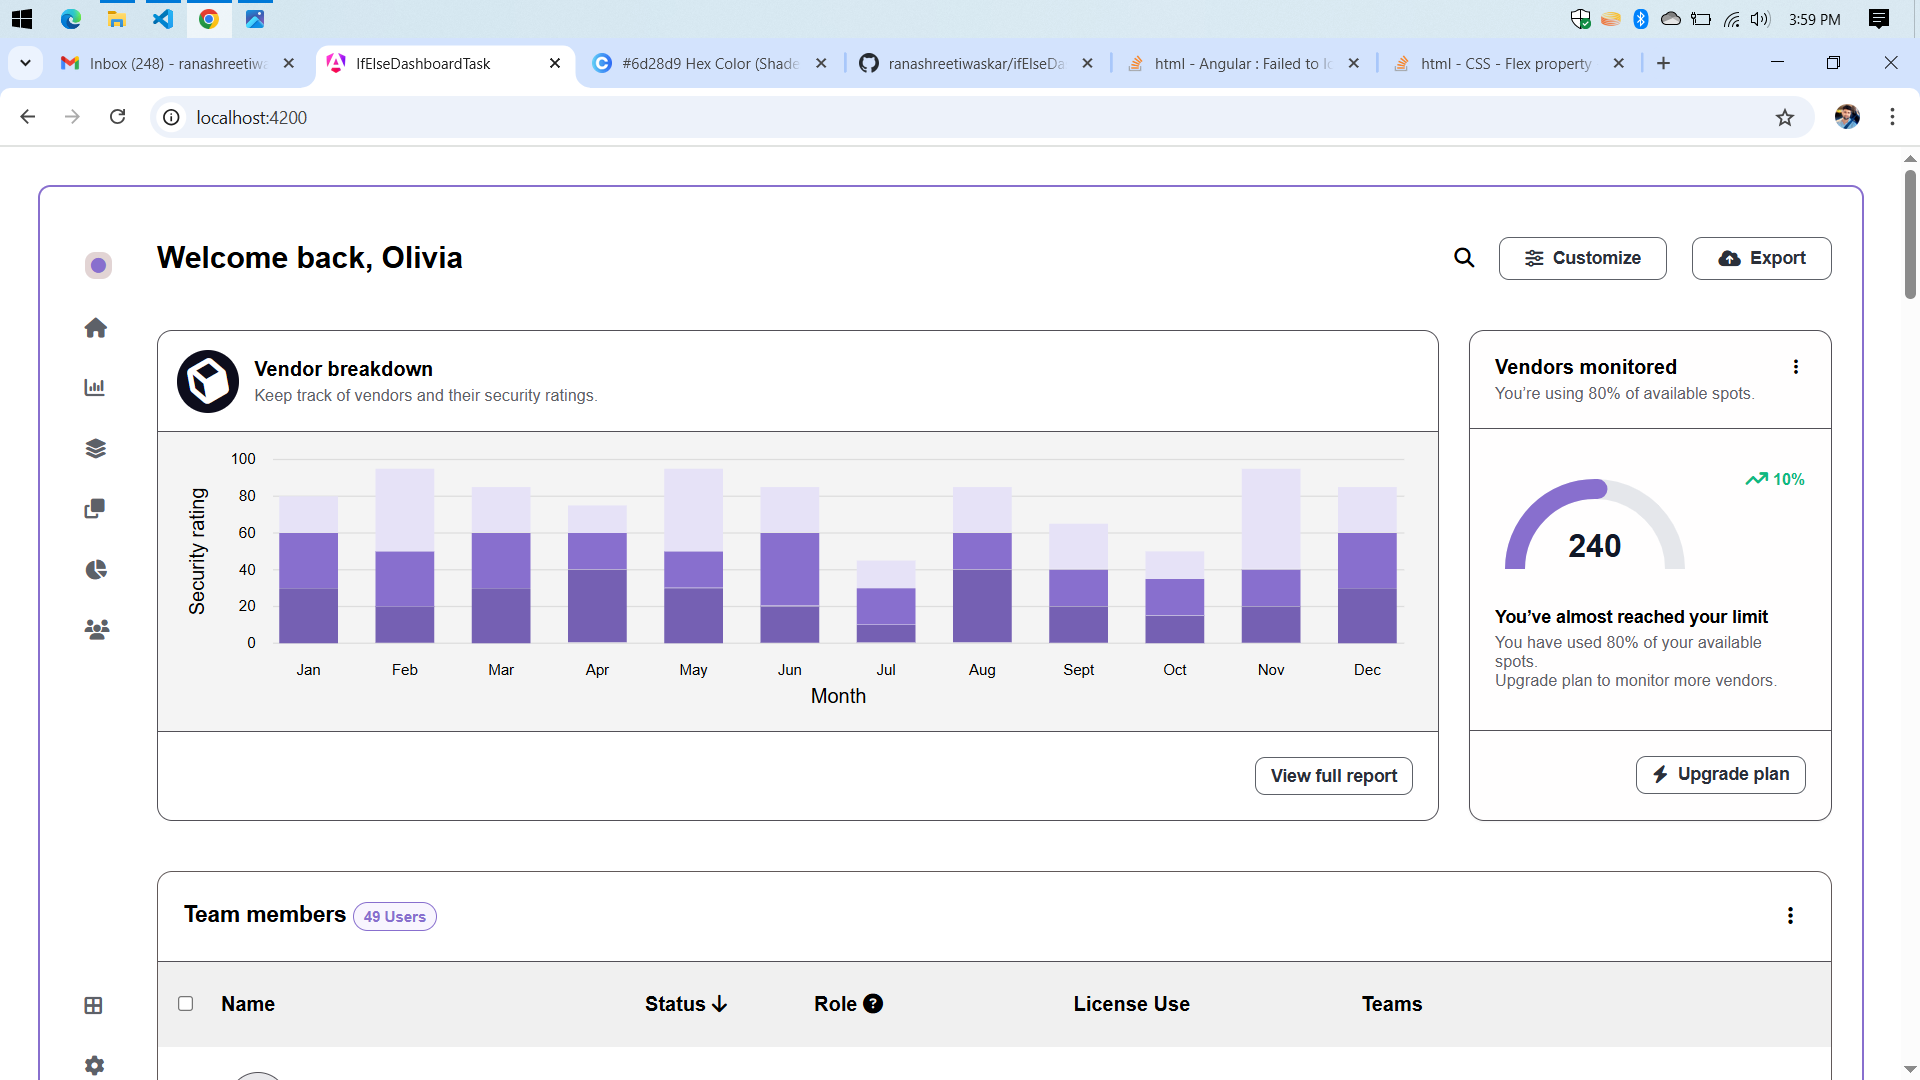
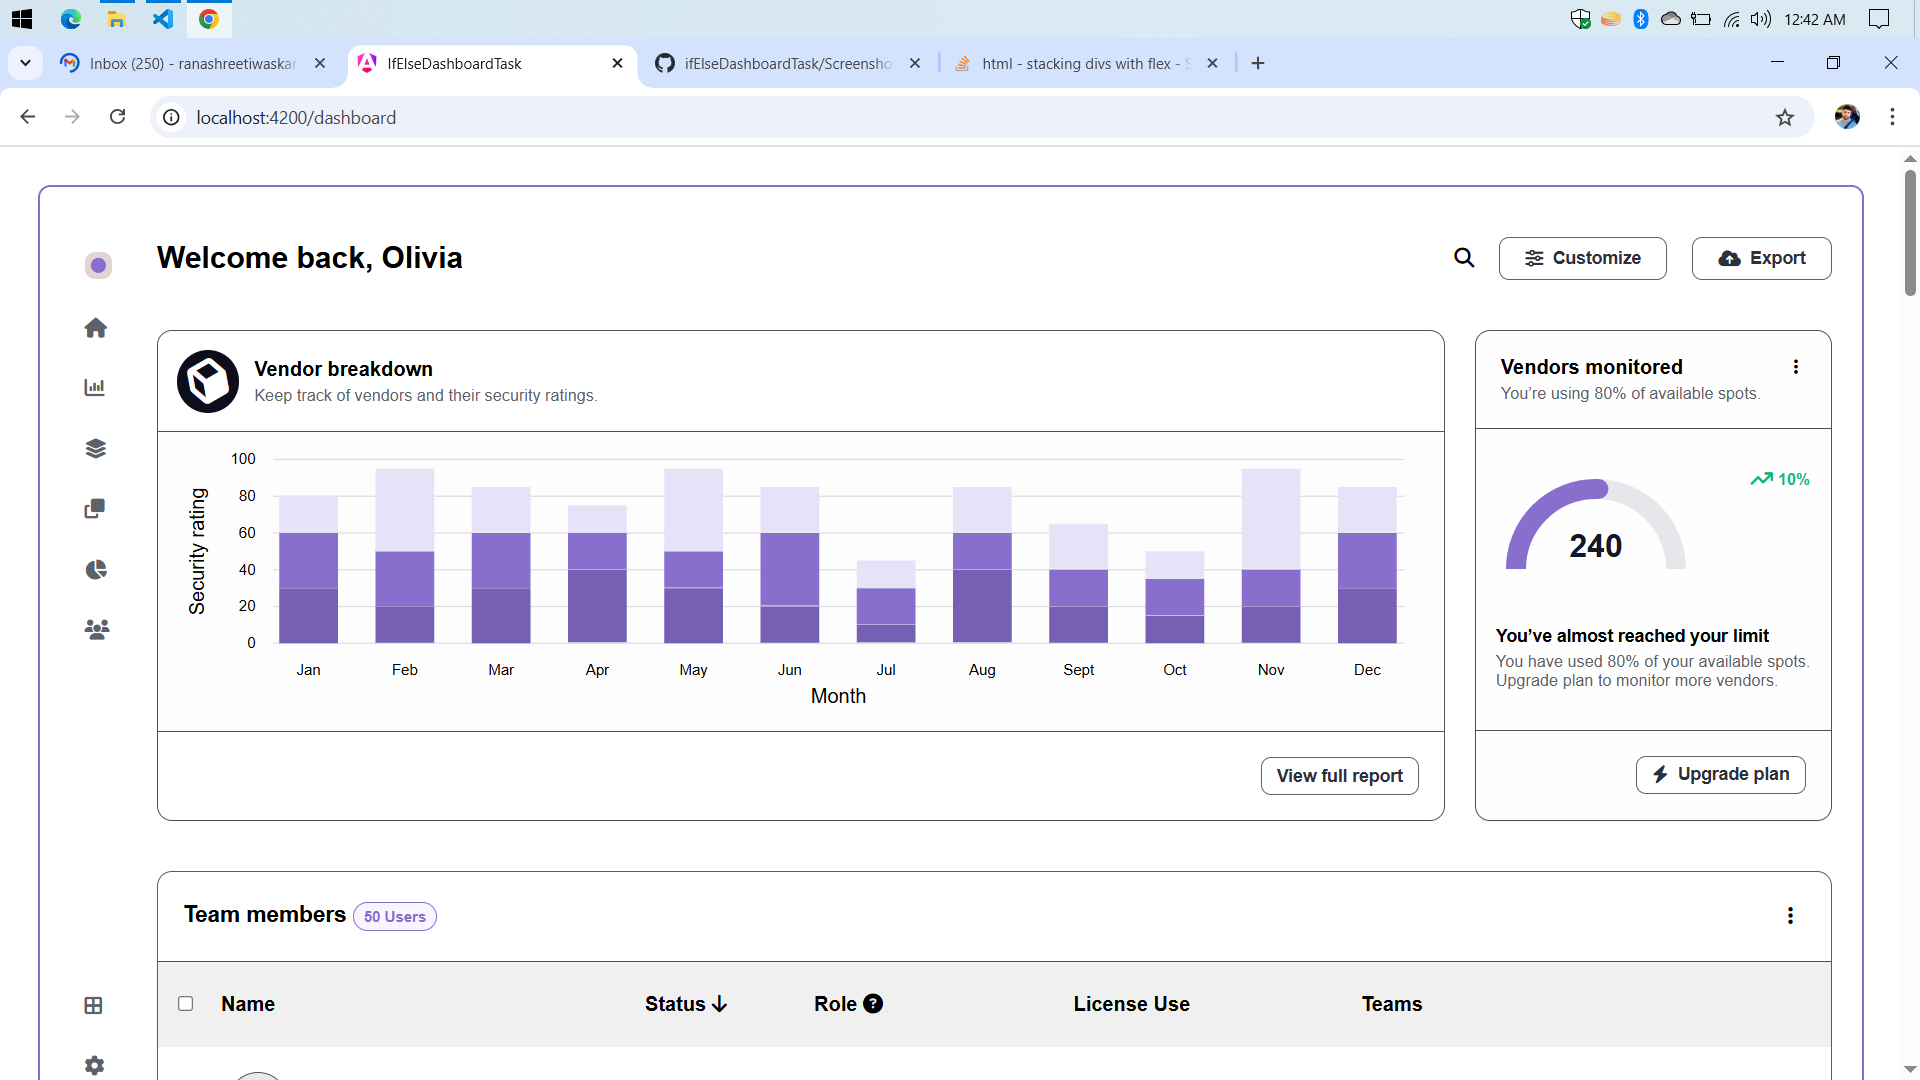
Updated screenshots attached

diff --git a/src/app/shared/charts/circle-chart/circle-chart.component.scss b/src/app/shared/charts/circle-chart/circle-chart.component.scss
@@ -7,7 +7,7 @@
     gap: 30px;
     border-top: $border-all-boxes;
     border-bottom: $border-all-boxes;
-    padding: 32px 20px;
+    padding: 32px 16px;
 
     .top-section {
       display: flex;
@@ -17,7 +17,7 @@
 
       .progress-wrapper {
         width: 160px;
-        height: 80px;
+        height: 95px;
 
         .semi-circle {
           width: 100%;
